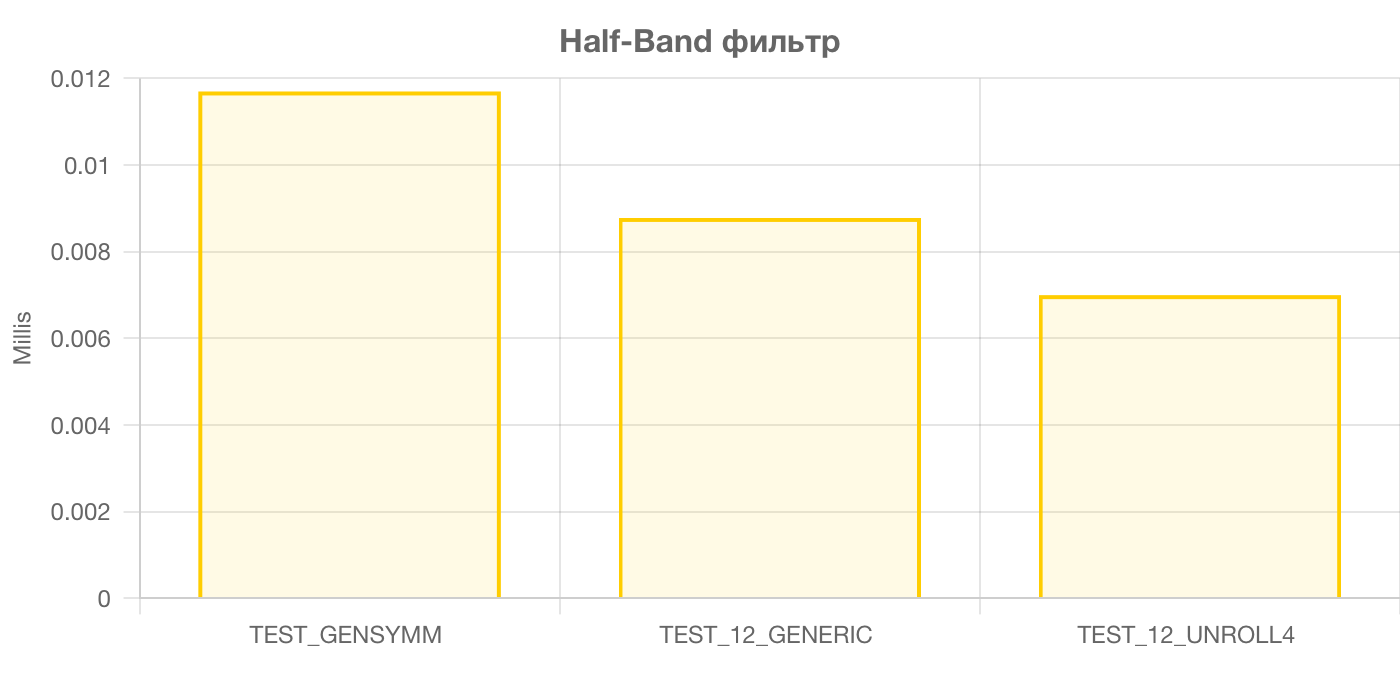
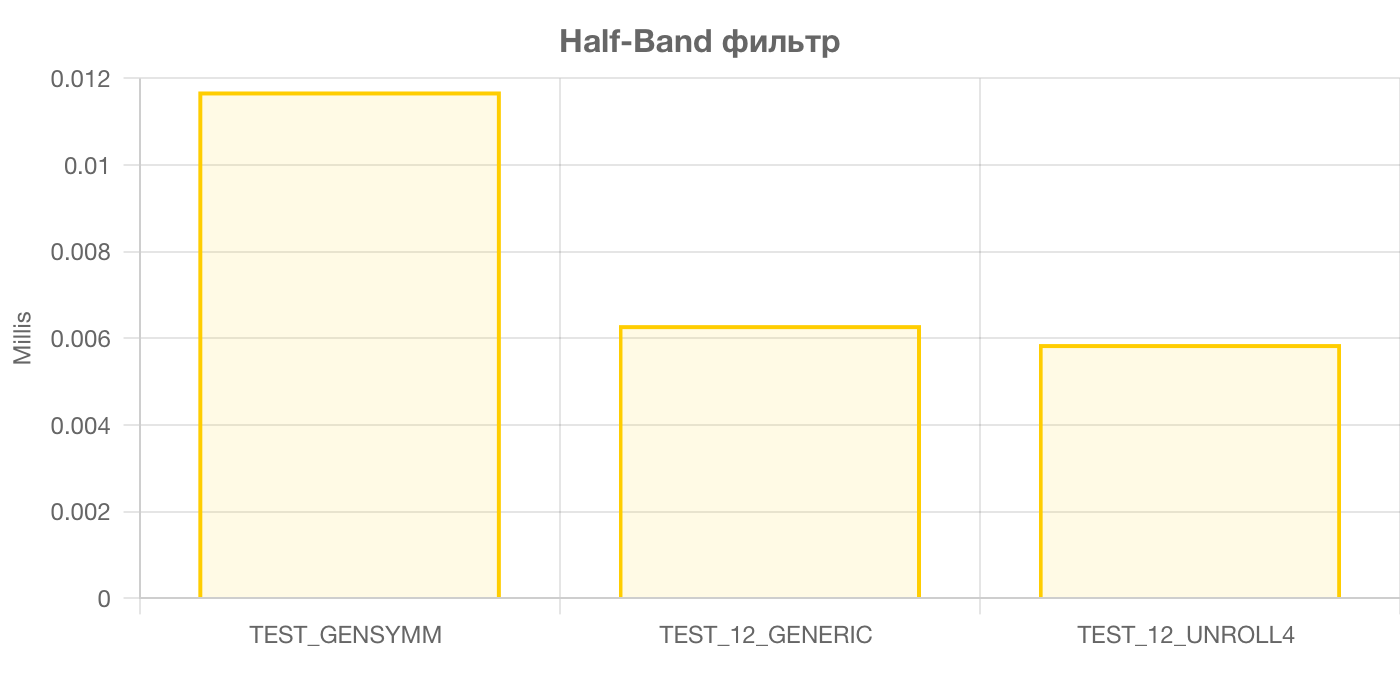
update numbers slightly

Changed region(s): [[0.43, 0.3, 0.6757, 0.48], [0.7371, 0.42, 0.9829, 0.51]]

diff --git a/tags/поворотное-устройство/index.html b/tags/поворотное-устройство/index.html
@@ -2,11 +2,11 @@
 <html lang='ru' dir='auto'><head>
   <meta charset='utf-8'>
 <meta name='viewport' content='width=device-width, initial-scale=1'>
-<meta name='description' content='Создание, настройка и работа с различными поворотными устройствами. Например, skywatcher allview'>
+<meta name='description' content='Блог о программировании на Java'>
 <meta name='theme-color' content='#ffcd00'>
 
 <meta property='og:title' content='tag: поворотное устройство • dernasherbrezon'>
-<meta property='og:description' content='Создание, настройка и работа с различными поворотными устройствами. Например, skywatcher allview'>
+<meta property='og:description' content='Блог о программировании на Java'>
 <meta property='og:url' content='https://dernasherbrezon.com/tags/%D0%BF%D0%BE%D0%B2%D0%BE%D1%80%D0%BE%D1%82%D0%BD%D0%BE%D0%B5-%D1%83%D1%81%D1%82%D1%80%D0%BE%D0%B9%D1%81%D1%82%D0%B2%D0%BE/'>
 <meta property='og:site_name' content='dernasherbrezon'>
 <meta property='og:type' content='website'><meta property='og:updated_time' content='2023-07-15T17:39:18&#43;01:00'/><meta name='twitter:card' content='summary'><meta name='twitter:site' content='@dernasherbrezon'>
@@ -333,8 +333,6 @@
       <h1 class='title'><span class='taxonomy-name'>tag: </span>поворотное устройство</h1>
 
       
-<p class='desc'>Создание, настройка и работа с различными поворотными устройствами. Например, skywatcher allview</p>
-
 
     </div>
   </div>
@@ -345,6 +343,70 @@
 
 <div class='container list-container'>
   <ul class='list'>
+    
+      <li class='item'>
+  <div class='meta'>
+    <span>
+  <span class='screen-reader-text'> </span>
+  <time datetime='2022-05-21T21:54:18&#43;01:00'>21 May 2022</time>
+</span>
+
+  </div>
+  <header class='item-header'>
+    <h3 class='item-title'>
+      <a href='/posts/systemd-udev/'>Привязка systemd сервиса к устройству</a>
+    </h3>
+  </header>
+</li>
+
+    
+      <li class='item'>
+  <div class='meta'>
+    <span>
+  <span class='screen-reader-text'> </span>
+  <time datetime='2020-07-07T21:39:18&#43;01:00'>07 Jul 2020</time>
+</span>
+
+  </div>
+  <header class='item-header'>
+    <h3 class='item-title'>
+      <a href='/posts/rotator-for-r2cloud-3/'>Полевые испытания поворотного устройства</a>
+    </h3>
+  </header>
+</li>
+
+    
+      <li class='item'>
+  <div class='meta'>
+    <span>
+  <span class='screen-reader-text'> </span>
+  <time datetime='2020-06-16T20:04:18&#43;01:00'>16 Jun 2020</time>
+</span>
+
+  </div>
+  <header class='item-header'>
+    <h3 class='item-title'>
+      <a href='/posts/rotator-for-r2cloud-2/'>Поворотное устройство - продолжение</a>
+    </h3>
+  </header>
+</li>
+
+    
+      <li class='item'>
+  <div class='meta'>
+    <span>
+  <span class='screen-reader-text'> </span>
+  <time datetime='2020-06-10T18:41:18&#43;01:00'>10 Jun 2020</time>
+</span>
+
+  </div>
+  <header class='item-header'>
+    <h3 class='item-title'>
+      <a href='/posts/rotator-for-r2cloud/'>Поворотное устройство для r2cloud</a>
+    </h3>
+  </header>
+</li>
+
     
   </ul>
 

diff --git a/tags/abbreviated-jpeg/index.html b/tags/abbreviated-jpeg/index.html
@@ -2,11 +2,11 @@
 <html lang='ru' dir='auto'><head>
   <meta charset='utf-8'>
 <meta name='viewport' content='width=device-width, initial-scale=1'>
-<meta name='description' content='Блог о программировании на Java'>
+<meta name='description' content='Описание работы с достаточно редко встречающимся видом jpeg файлов - abbreviated jpeg'>
 <meta name='theme-color' content='#ffcd00'>
 
 <meta property='og:title' content='tag: abbreviated jpeg • dernasherbrezon'>
-<meta property='og:description' content='Блог о программировании на Java'>
+<meta property='og:description' content='Описание работы с достаточно редко встречающимся видом jpeg файлов - abbreviated jpeg'>
 <meta property='og:url' content='https://dernasherbrezon.com/tags/abbreviated-jpeg/'>
 <meta property='og:site_name' content='dernasherbrezon'>
 <meta property='og:type' content='website'><meta property='og:updated_time' content='2023-07-15T17:39:18&#43;01:00'/><meta name='twitter:card' content='summary'><meta name='twitter:site' content='@dernasherbrezon'>
@@ -333,6 +333,8 @@
       <h1 class='title'><span class='taxonomy-name'>tag: </span>abbreviated jpeg</h1>
 
       
+<p class='desc'>Описание работы с достаточно редко встречающимся видом jpeg файлов - abbreviated jpeg</p>
+
 
     </div>
   </div>
@@ -343,38 +345,6 @@
 
 <div class='container list-container'>
   <ul class='list'>
-    
-      <li class='item'>
-  <div class='meta'>
-    <span>
-  <span class='screen-reader-text'> </span>
-  <time datetime='2020-01-23T00:20:17&#43;01:00'>23 Jan 2020</time>
-</span>
-
-  </div>
-  <header class='item-header'>
-    <h3 class='item-title'>
-      <a href='/posts/decoding-jy1sat/'>Декодирование картинки jy1sat</a>
-    </h3>
-  </header>
-</li>
-
-    
-      <li class='item'>
-  <div class='meta'>
-    <span>
-  <span class='screen-reader-text'> </span>
-  <time datetime='2020-01-09T21:11:18&#43;01:00'>09 Jan 2020</time>
-</span>
-
-  </div>
-  <header class='item-header'>
-    <h3 class='item-title'>
-      <a href='/posts/abbreviated-jpeg-java/'>Abbreviated jpeg в Java</a>
-    </h3>
-  </header>
-</li>
-
     
   </ul>
 

diff --git a/posts/fir-filter-optimization-simd2/index.html b/posts/fir-filter-optimization-simd2/index.html
@@ -567,7 +567,7 @@ volk_32f_x2_dot_prod_32f a_neonasm neon
 </small>
 </div>
 <script>
-var volkGraphData = [{"rpi_volk":0.050044,"type":"Not aligned"},{"rpi_volk":0.068933,"type":"8byte aligned"},{"rpi_volk":0.04486,"type":"16byte aligned"}];
+var volkGraphData = [{"rpi_volk":0.050044,"type":"Not aligned"},{"rpi_volk":0.032257,"type":"8byte aligned"},{"rpi_volk":0.035115,"type":"16byte aligned"}];
 var volkGraphdatasource = volkGraphData.map(function(e) {
 	return e.rpi_volk;
 });var volkGraphXAxis = volkGraphData.map(function(e) {
@@ -706,7 +706,7 @@ const volkGraphChart = new Chart(volkGraphCtx, {
 </small>
 </div>
 <script>
-var dot_prod_12Data = [{"rpi_dot_prod":0.011698,"type":"TEST_GENSYMM"},{"rpi_dot_prod":0.00878,"type":"TEST_12_GENERIC"},{"rpi_dot_prod":0.006998,"type":"TEST_12_UNROLL4"}];
+var dot_prod_12Data = [{"rpi_dot_prod":0.011698,"type":"TEST_GENSYMM"},{"rpi_dot_prod":0.006306,"type":"TEST_12_GENERIC"},{"rpi_dot_prod":0.005869,"type":"TEST_12_UNROLL4"}];
 var dot_prod_12datasource = dot_prod_12Data.map(function(e) {
 	return e.rpi_dot_prod;
 });var dot_prod_12XAxis = dot_prod_12Data.map(function(e) {
